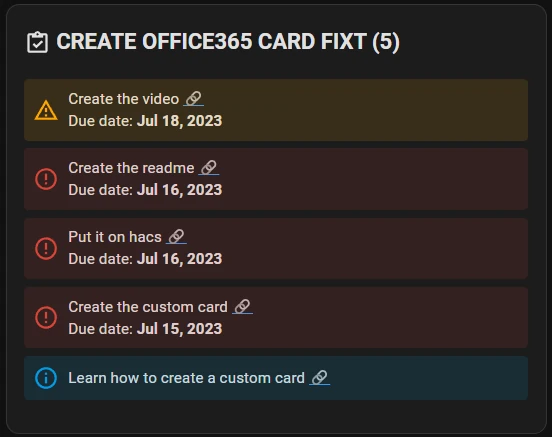
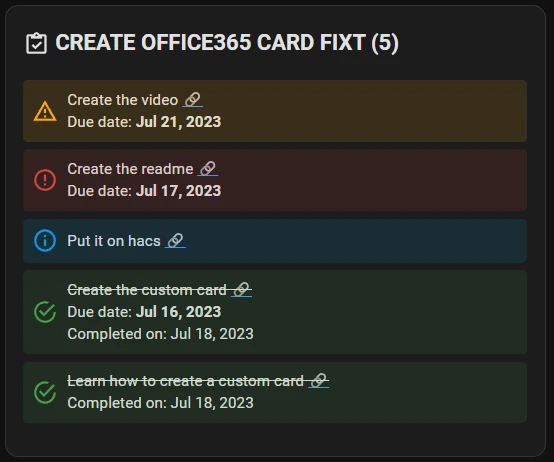
feat: :zap: added completed task support

diff --git a/README.md b/README.md
@@ -60,12 +60,13 @@ only_overdue: false
 <p align="center"><img src="img/task.webp" alt="task sensor example img"></p>
 
 * The card Lists the items from a tasks sensor ([doc](https://rogerselwyn.github.io/O365-HomeAssistant/sensor.html#taskto-do-sensor))
-* The sensor only retrieve not finished tasks, so there is no way to show the finished ones
-* Each item has a link that will take you to the items page on todo.office.com
+* By default the sensor only retrieves incomplete tasks, if you want to show completed ones too, you need to configure it on the tasks configuration file ([doc](https://rogerselwyn.github.io/O365-HomeAssistant/tasks_configuration.html#tasks-configuration))
+* Each item has a link that will take you to the item's page on todo.office.com
 * The State Color is based on the Due Date:
   * Warning : With Due Date, not overdue
   * Alert: With Due Date, overdue
   * Info: Without Due Date
+  * Success: Completed task
 
 #### Options
 | Name | Requirement | Description | 
